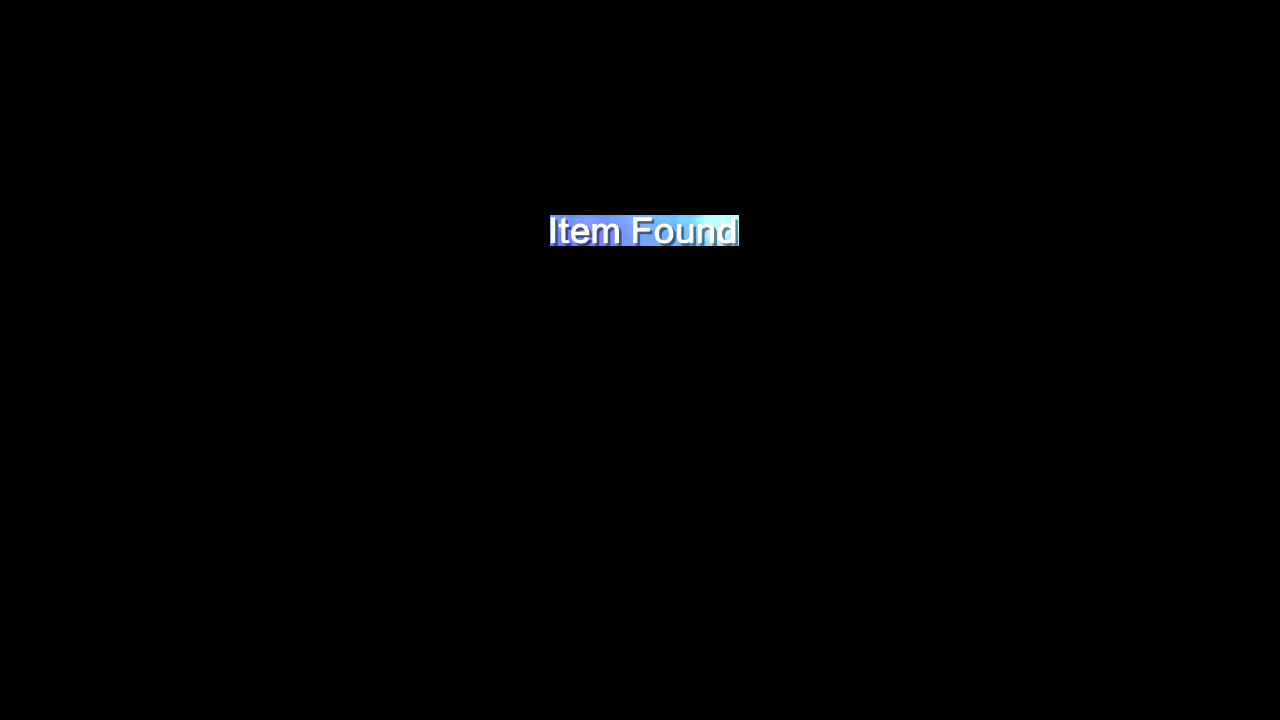
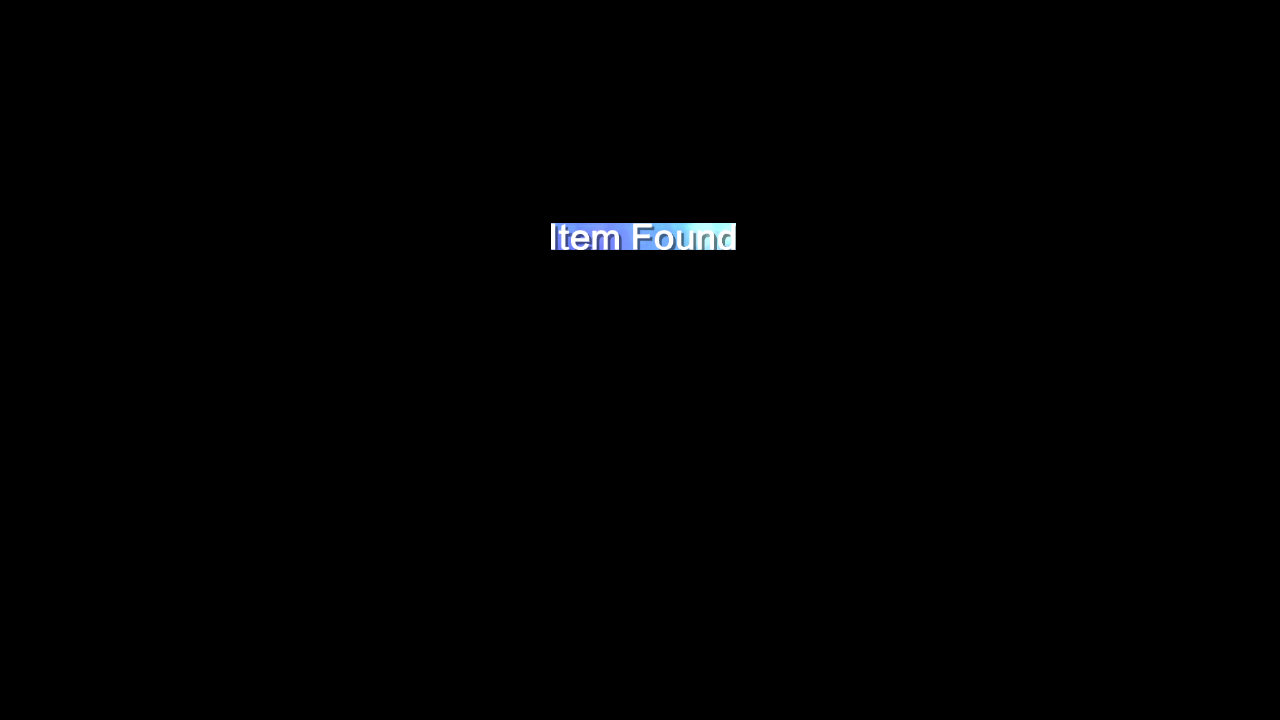
Upd: [EN] GET_ITEMS_1, GET_ITEMS_2

Changed region(s): [[0.4375, 0.275, 0.5938, 0.3667]]

diff --git a/module/combat/assets.py b/module/combat/assets.py
@@ -29,9 +29,9 @@ EXP_INFO_B = Button(area={'cn': (332, 107, 387, 118), 'en': (332, 107, 387, 118)
 EXP_INFO_C = Button(area={'cn': (332, 56, 345, 107), 'en': (332, 56, 345, 107), 'jp': (332, 56, 345, 107), 'tw': (332, 56, 345, 107)}, color={'cn': (198, 208, 198), 'en': (198, 208, 198), 'jp': (198, 208, 198), 'tw': (198, 208, 198)}, button={'cn': (1133, 634, 1262, 650), 'en': (1133, 634, 1262, 650), 'jp': (1133, 634, 1262, 650), 'tw': (1133, 634, 1262, 650)}, file={'cn': './assets/cn/combat/EXP_INFO_C.png', 'en': './assets/en/combat/EXP_INFO_C.png', 'jp': './assets/jp/combat/EXP_INFO_C.png', 'tw': './assets/tw/combat/EXP_INFO_C.png'})
 EXP_INFO_D = Button(area={'cn': (328, 45, 341, 119), 'en': (328, 45, 341, 119), 'jp': (328, 45, 341, 119), 'tw': (328, 45, 341, 119)}, color={'cn': (199, 208, 199), 'en': (199, 208, 199), 'jp': (199, 208, 199), 'tw': (199, 208, 199)}, button={'cn': (1133, 634, 1262, 650), 'en': (1133, 634, 1262, 650), 'jp': (1133, 634, 1262, 650), 'tw': (1133, 634, 1262, 650)}, file={'cn': './assets/cn/combat/EXP_INFO_D.png', 'en': './assets/en/combat/EXP_INFO_D.png', 'jp': './assets/jp/combat/EXP_INFO_D.png', 'tw': './assets/tw/combat/EXP_INFO_D.png'})
 EXP_INFO_S = Button(area={'cn': (342, 107, 389, 119), 'en': (342, 107, 389, 119), 'jp': (342, 107, 389, 119), 'tw': (342, 107, 389, 119)}, color={'cn': (233, 242, 127), 'en': (233, 242, 127), 'jp': (233, 242, 127), 'tw': (233, 242, 127)}, button={'cn': (1133, 634, 1262, 650), 'en': (1133, 634, 1262, 650), 'jp': (1133, 634, 1262, 650), 'tw': (1133, 634, 1262, 650)}, file={'cn': './assets/cn/combat/EXP_INFO_S.png', 'en': './assets/en/combat/EXP_INFO_S.png', 'jp': './assets/jp/combat/EXP_INFO_S.png', 'tw': './assets/tw/combat/EXP_INFO_S.png'})
-GET_ITEMS_1 = Button(area={'cn': (538, 217, 741, 253), 'en': (550, 215, 739, 246), 'jp': (548, 217, 741, 253), 'tw': (539, 217, 742, 253)}, color={'cn': (160, 192, 248), 'en': (157, 187, 233), 'jp': (144, 183, 250), 'tw': (155, 190, 248)}, button={'cn': (1000, 631, 1055, 689), 'en': (999, 630, 1047, 691), 'jp': (1000, 631, 1055, 689), 'tw': (1000, 631, 1055, 689)}, file={'cn': './assets/cn/combat/GET_ITEMS_1.png', 'en': './assets/en/combat/GET_ITEMS_1.png', 'jp': './assets/jp/combat/GET_ITEMS_1.png', 'tw': './assets/tw/combat/GET_ITEMS_1.png'})
+GET_ITEMS_1 = Button(area={'cn': (538, 217, 741, 253), 'en': (551, 223, 736, 250), 'jp': (548, 217, 741, 253), 'tw': (539, 217, 742, 253)}, color={'cn': (160, 192, 248), 'en': (166, 194, 235), 'jp': (144, 183, 250), 'tw': (155, 190, 248)}, button={'cn': (1000, 631, 1055, 689), 'en': (999, 630, 1047, 691), 'jp': (1000, 631, 1055, 689), 'tw': (1000, 631, 1055, 689)}, file={'cn': './assets/cn/combat/GET_ITEMS_1.png', 'en': './assets/en/combat/GET_ITEMS_1.png', 'jp': './assets/jp/combat/GET_ITEMS_1.png', 'tw': './assets/tw/combat/GET_ITEMS_1.png'})
 GET_ITEMS_1_RYZA = Button(area={'cn': (564, 217, 721, 245), 'en': (577, 211, 704, 239), 'jp': (566, 217, 719, 244), 'tw': (564, 218, 723, 246)}, color={'cn': (176, 199, 243), 'en': (172, 199, 246), 'jp': (179, 201, 243), 'tw': (173, 197, 242)}, button={'cn': (1000, 631, 1055, 689), 'en': (1000, 631, 1055, 689), 'jp': (1000, 631, 1055, 689), 'tw': (1000, 631, 1055, 689)}, file={'cn': './assets/cn/combat/GET_ITEMS_1_RYZA.png', 'en': './assets/en/combat/GET_ITEMS_1_RYZA.png', 'jp': './assets/jp/combat/GET_ITEMS_1_RYZA.png', 'tw': './assets/tw/combat/GET_ITEMS_1_RYZA.png'})
-GET_ITEMS_2 = Button(area={'cn': (538, 146, 742, 182), 'en': (549, 140, 740, 176), 'jp': (547, 143, 742, 179), 'tw': (538, 148, 741, 182)}, color={'cn': (160, 192, 248), 'en': (152, 185, 236), 'jp': (145, 183, 250), 'tw': (155, 190, 248)}, button={'cn': (1000, 631, 1055, 689), 'en': (999, 630, 1047, 691), 'jp': (1000, 631, 1055, 689), 'tw': (1000, 631, 1055, 689)}, file={'cn': './assets/cn/combat/GET_ITEMS_2.png', 'en': './assets/en/combat/GET_ITEMS_2.png', 'jp': './assets/jp/combat/GET_ITEMS_2.png', 'tw': './assets/tw/combat/GET_ITEMS_2.png'})
+GET_ITEMS_2 = Button(area={'cn': (538, 146, 742, 182), 'en': (551, 149, 735, 175), 'jp': (547, 143, 742, 179), 'tw': (538, 148, 741, 182)}, color={'cn': (160, 192, 248), 'en': (167, 195, 235), 'jp': (145, 183, 250), 'tw': (155, 190, 248)}, button={'cn': (1000, 631, 1055, 689), 'en': (999, 630, 1047, 691), 'jp': (1000, 631, 1055, 689), 'tw': (1000, 631, 1055, 689)}, file={'cn': './assets/cn/combat/GET_ITEMS_2.png', 'en': './assets/en/combat/GET_ITEMS_2.png', 'jp': './assets/jp/combat/GET_ITEMS_2.png', 'tw': './assets/tw/combat/GET_ITEMS_2.png'})
 GET_ITEMS_3 = Button(area={'cn': (539, 143, 742, 179), 'en': (548, 136, 740, 172), 'jp': (547, 143, 742, 179), 'tw': (546, 145, 742, 178)}, color={'cn': (161, 193, 248), 'en': (152, 185, 237), 'jp': (145, 183, 250), 'tw': (156, 190, 248)}, button={'cn': (1000, 631, 1055, 689), 'en': (999, 630, 1047, 691), 'jp': (1000, 631, 1055, 689), 'tw': (1000, 631, 1055, 689)}, file={'cn': './assets/cn/combat/GET_ITEMS_3.png', 'en': './assets/en/combat/GET_ITEMS_3.png', 'jp': './assets/jp/combat/GET_ITEMS_3.png', 'tw': './assets/tw/combat/GET_ITEMS_3.png'})
 GET_ITEMS_3_CHECK = Button(area={'cn': (335, 184, 947, 203), 'en': (335, 184, 947, 203), 'jp': (335, 184, 947, 203), 'tw': (335, 184, 947, 203)}, color={'cn': (84, 95, 109), 'en': (84, 95, 109), 'jp': (84, 95, 109), 'tw': (84, 95, 109)}, button={'cn': (335, 184, 947, 203), 'en': (335, 184, 947, 203), 'jp': (335, 184, 947, 203), 'tw': (335, 184, 947, 203)}, file={'cn': './assets/cn/combat/GET_ITEMS_3_CHECK.png', 'en': './assets/en/combat/GET_ITEMS_3_CHECK.png', 'jp': './assets/jp/combat/GET_ITEMS_3_CHECK.png', 'tw': './assets/tw/combat/GET_ITEMS_3_CHECK.png'})
 GET_SHIP = Button(area={'cn': (1104, 610, 1110, 630), 'en': (1104, 610, 1110, 630), 'jp': (1104, 610, 1110, 630), 'tw': (1104, 610, 1110, 630)}, color={'cn': (255, 255, 255), 'en': (255, 255, 255), 'jp': (255, 255, 255), 'tw': (255, 255, 255)}, button={'cn': (1000, 631, 1055, 689), 'en': (999, 630, 1047, 691), 'jp': (1000, 631, 1055, 689), 'tw': (1000, 631, 1055, 689)}, file={'cn': './assets/cn/combat/GET_SHIP.png', 'en': './assets/en/combat/GET_SHIP.png', 'jp': './assets/jp/combat/GET_SHIP.png', 'tw': './assets/tw/combat/GET_SHIP.png'})
